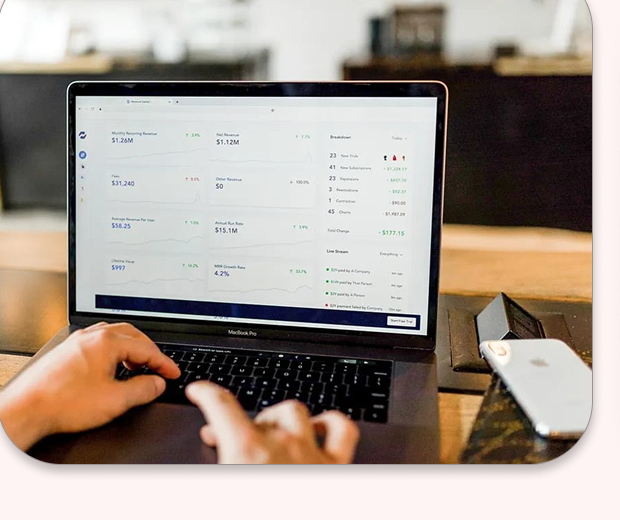
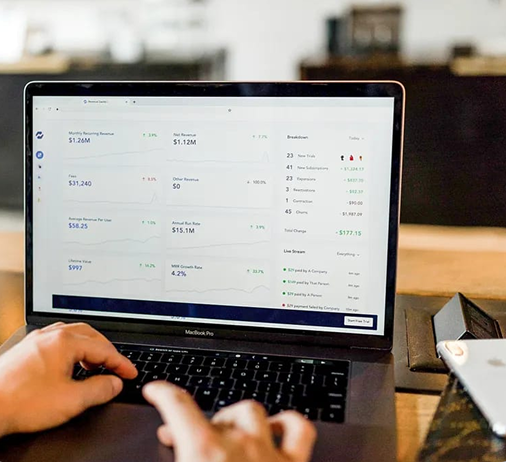
update terbaru

diff --git a/frontend/styles/bermitra_dengan_kami.css b/frontend/styles/bermitra_dengan_kami.css
@@ -85,9 +85,15 @@ img {
     min-height: 520px;
 }
 
+.hero-image {
+    overflow: hidden;
+}
+
 .hero-image img {
     height: 100%;
     object-fit: cover;
+    transform: scaleY(1.12);
+    transform-origin: center;
 }
 
 .hero-content {
@@ -106,7 +112,7 @@ img {
     position: absolute;
     inset: 0;
     z-index: -2;
-    background: url(" ") center
+    background: url("") center
 }
 
 .hero-content::after {

diff --git a/frontend/pages/bermitra_dengan_kami.html b/frontend/pages/bermitra_dengan_kami.html
@@ -71,7 +71,7 @@
 
             <section id="solusi" class="solution-section">
                 <div class="solution-image">
-                    <img src="../assets/bermitra-dengan-kami/dashboard-laptop.png" alt="Dashboard bisnis restoran pada laptop">
+                    <img src="/dudukyu/frontend/assets/bermitra-dengan-kami/gambar.png" alt="Dashboard bisnis restoran pada laptop">
                 </div>
                 <div class="solution-copy">
                     <h2>Solusi dari <span>DudukYuk</span></h2>